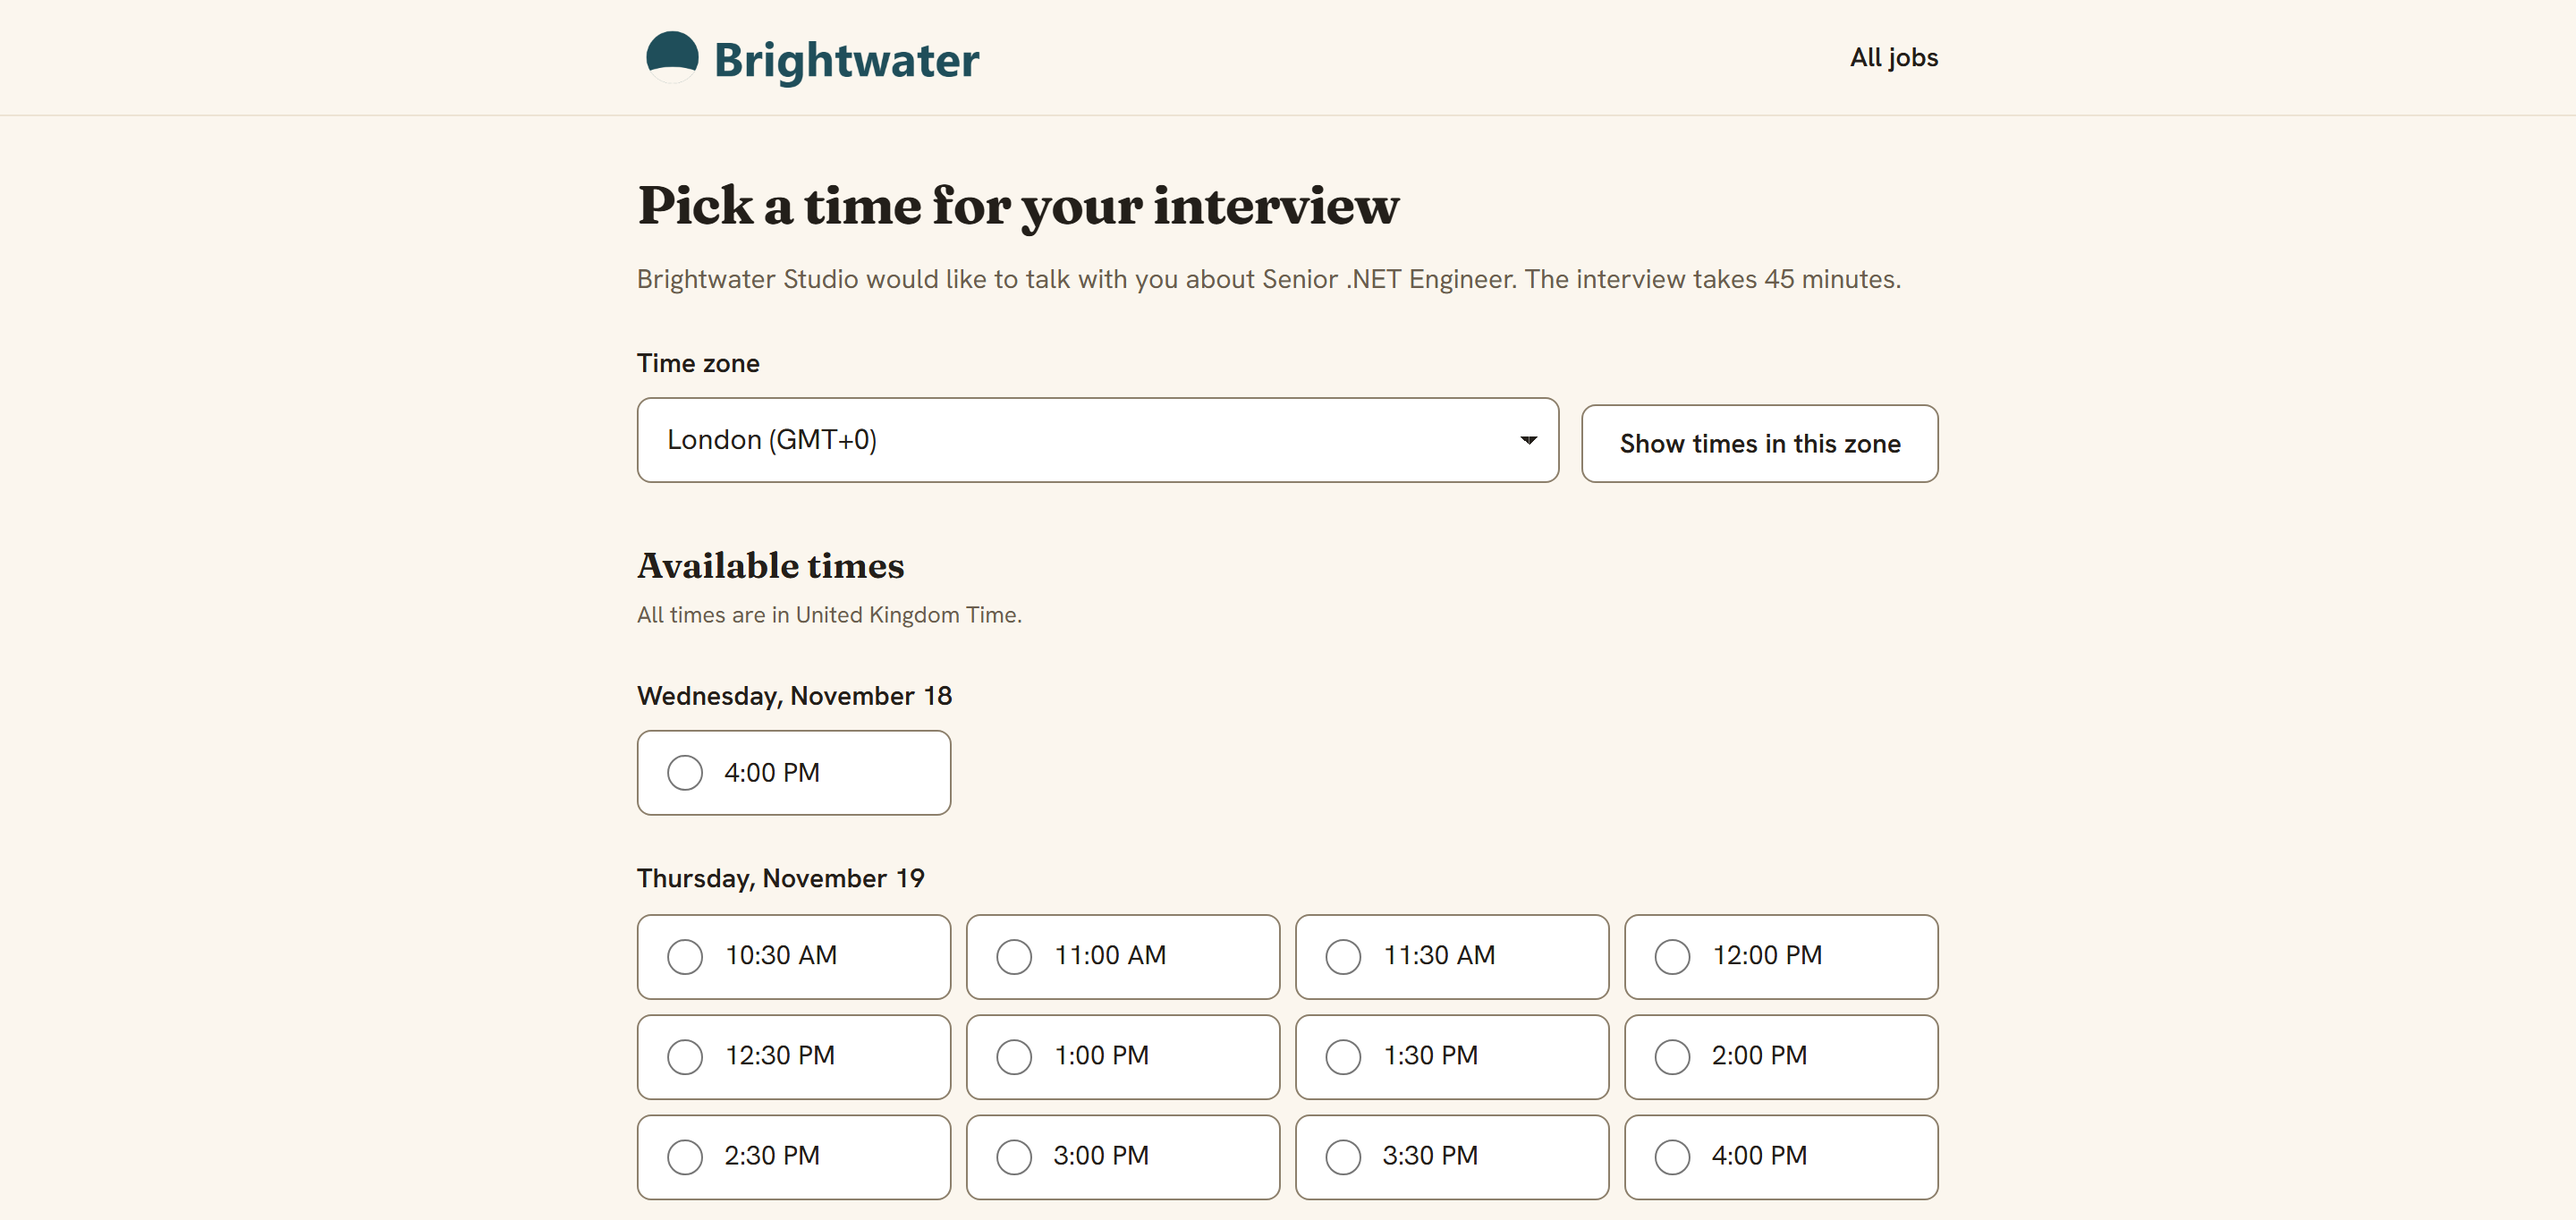
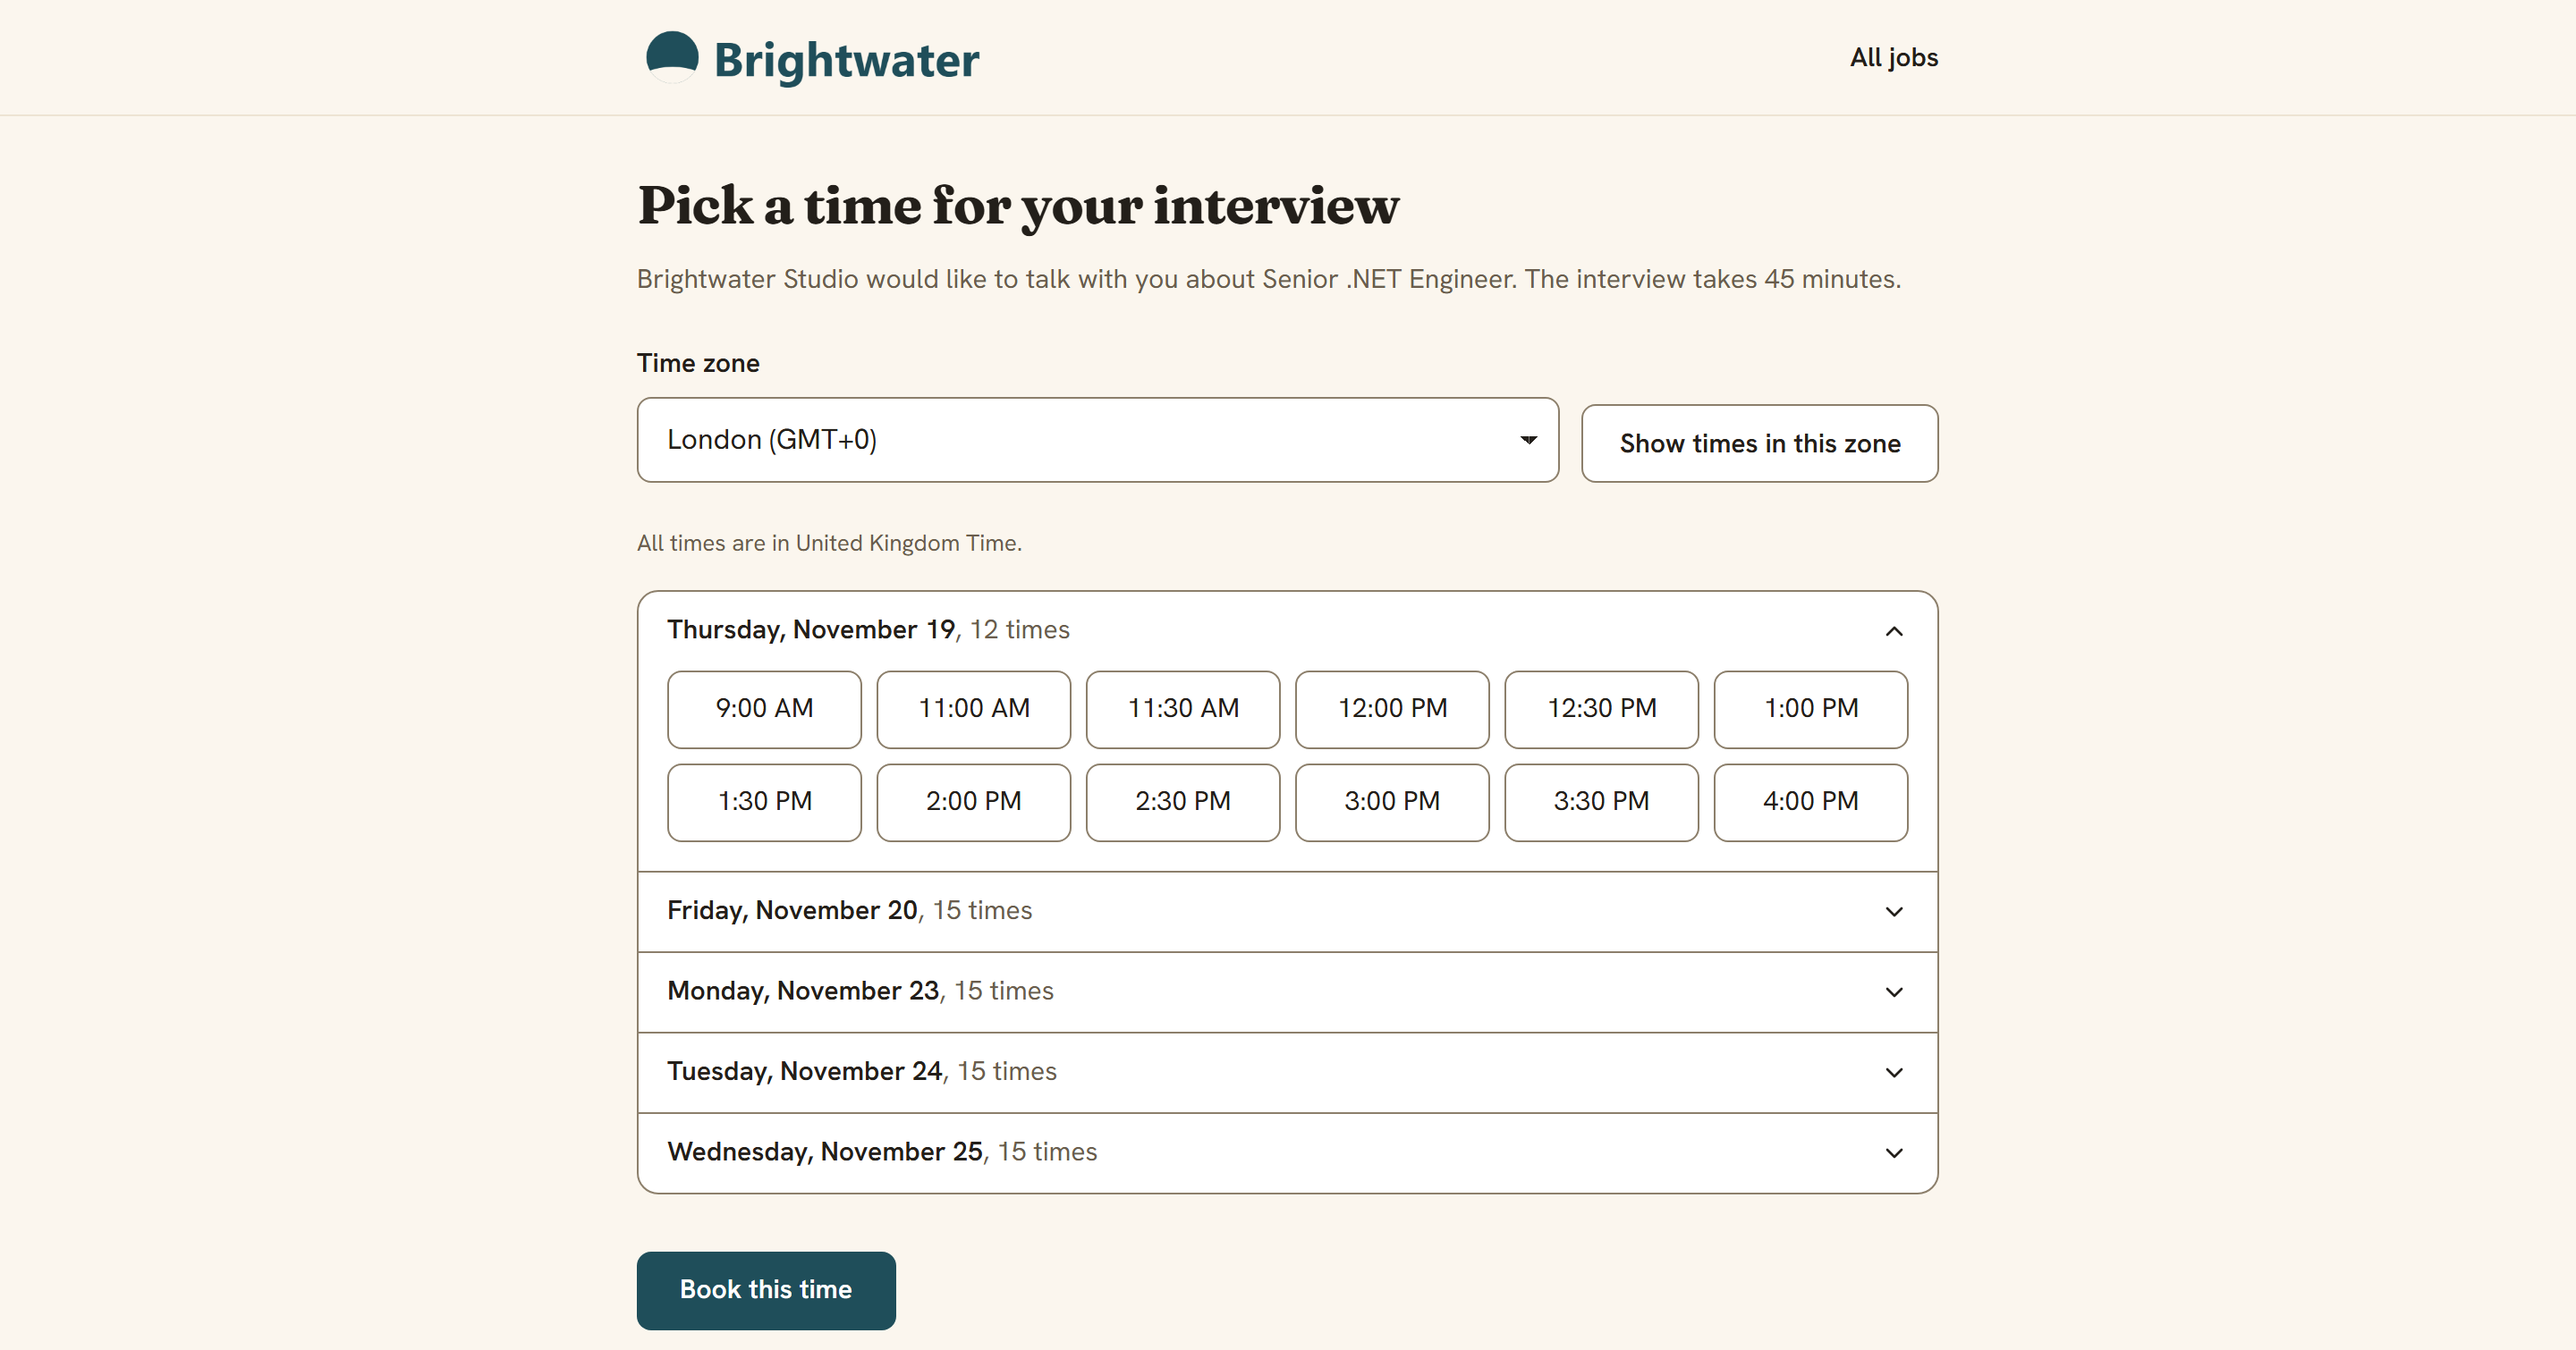
feat(careers): the interview picker shows one day at a time on a phone
Each day of times is a details element whose summary names the day and counts its
times; only the first day starts open. Times are chips three to a row, still radios
in the one form, so choosing works with JavaScript off. Where CSS anchor positioning
exists, the chosen time is repeated above Book from the checked label. Five days
now make a page under 1400 px tall at 390 px. The interview-booking pictures are
regenerated.

diff --git a/apps/careers/src/styles/global.css b/apps/careers/src/styles/global.css
@@ -49,4 +49,30 @@
     height: 1px;
     overflow: hidden;
   }
+
+  /* A time on the interview page is a chip: the radio covers it, invisible, so the whole chip is the target and the page is
+     three times to a row on a phone. The checked chip shows the choice (background and ring), and focus shows on the chip. */
+  .time-chip:has(:focus-visible) {
+    outline: 2px solid var(--candidate-brand-ui);
+    outline-offset: 2px;
+  }
+
+  /* The time picked, repeated above Book (the interview page). A checked time's label carries it in data-chosen and CSS
+     anchors it to the Book row, so there is no script and no copy of the text in the page. Only where the browser can
+     anchor; elsewhere the checked time itself shows the choice. The empty alternative text keeps it out of the radio's name. */
+  @supports (anchor-name: --book) {
+    .times-form .book-row {
+      anchor-name: --book;
+      margin-top: 1rem;
+    }
+
+    .times-form .choice:has(:checked)::after {
+      content: attr(data-chosen) / "";
+      position: absolute;
+      position-anchor: --book;
+      bottom: anchor(top);
+      left: 0;
+      @apply text-candidate-body font-semibold text-candidate-foreground;
+    }
+  }
 }

diff --git a/tests/ScreenHire.E2E/InterviewBookingTests.cs b/tests/ScreenHire.E2E/InterviewBookingTests.cs
@@ -42,13 +42,13 @@ public sealed partial class InterviewBookingTests(E2EFixture fixture) : BrowserT
         await Expect(Page).ToHaveURLAsync(new Regex("tz=Asia%2FKolkata"));
         await Expect(Page.Locator("#tz")).ToHaveValueAsync("Asia/Kolkata");
         await Expect(Page.GetByText("All times are in India Standard Time.")).ToBeVisibleAsync();
-        var morning = Page.GetByLabel("2:30 PM", new() { Exact = true }).First; // 09:00 UTC, the first hour of the working day
+        var morning = await OpenDayWithAsync("2:30 PM"); // 09:00 UTC, the first hour of the working day
         await Expect(morning).ToBeVisibleAsync();
         var firstDay = await DayOfAsync(morning);
         await ExpectNoAccessibilityViolationsAsync();
         await ShotsAsync(scene.Link + "?tz=Asia%2FKolkata", "interview-open");
 
-        morning = Page.GetByLabel("2:30 PM", new() { Exact = true }).First; // the shots reopened the page in a new browser context
+        morning = await OpenDayWithAsync("2:30 PM"); // the shots reopened the page in a new browser context
         await morning.CheckAsync();
         await Page.GetByRole(AriaRole.Button, new() { Name = "Book this time" }).ClickAsync();
 
@@ -74,8 +74,9 @@ public sealed partial class InterviewBookingTests(E2EFixture fixture) : BrowserT
         Page.Url.Should().Contain("change=1").And.Contain("tz=Asia%2FKolkata");
         await Expect(Page.Locator("main")).ToContainTextAsync("Choose a new time and we will move it.");
         await ExpectNoAccessibilityViolationsAsync();
-        var last = Page.Locator("fieldset").Last;
-        var lastDay = (await last.Locator("legend").InnerTextAsync()).Trim();
+        var last = Page.Locator("details").Last;
+        await last.Locator("summary").ClickAsync(); // only the first day starts open
+        var lastDay = (await last.Locator("legend").TextContentAsync())!.Trim();
         var lastTime = last.GetByRole(AriaRole.Radio).Last;
         var lastRange = (await lastTime.Locator("xpath=ancestor::label[1]").InnerTextAsync()).Trim();
         await lastTime.CheckAsync();
@@ -102,6 +103,45 @@ public sealed partial class InterviewBookingTests(E2EFixture fixture) : BrowserT
 
         // The recruiter sees the cancellation too.
         (await scene.Interview(Ct)).GetProperty("status").GetString().Should().Be("Cancelled");
+    }
+
+    [Fact]
+    public async Task A_candidate_on_a_phone_sees_one_day_of_times_at_a_time_and_books_a_time_on_the_third_day()
+    {
+        using var scene = await SceneAsync();
+        await WithoutJavaScriptAsync();
+        await Page.SetViewportSizeAsync(390, 844);
+        await Page.GotoAsync(scene.Link);
+        await Expect(Page.GetByRole(AriaRole.Heading, new() { Level = 1 })).ToHaveTextAsync("Pick a time for your interview");
+
+        // Five days of times are five lines, and only the first day is open: the page stays short and Book is in reach.
+        var days = Page.Locator("main form details");
+        await Expect(days).ToHaveCountAsync(5);
+        await Expect(days.First).ToHaveAttributeAsync("open", "");
+        await Expect(Page.Locator("main form details[open]")).ToHaveCountAsync(1);
+        await Expect(days.Nth(2).Locator("summary")).ToHaveTextAsync(new Regex(@",\s*\d+ times?$"));
+        (await Page.Locator("script:not([type='application/ld+json'])").CountAsync()).Should().Be(0, "the page ships no JavaScript");
+        await ExpectNoAccessibilityViolationsAsync();
+
+        await WithJavaScriptAsync(); // only to measure: the page has no script of its own
+        await Page.SetViewportSizeAsync(390, 844);
+        await Page.GotoAsync(scene.Link);
+        var height = await Page.EvaluateAsync<double>("() => document.documentElement.scrollHeight");
+        height.Should().BeLessThan(1400, "five days of times fit a phone page about one and a half screens tall");
+
+        // A time on the third day: open it, choose it, and the choice is repeated above Book.
+        var third = Page.Locator("main form details").Nth(2);
+        await third.Locator("summary").ClickAsync();
+        var dayHeading = (await third.Locator("legend").TextContentAsync())!.Trim();
+        await third.GetByRole(AriaRole.Radio).First.CheckAsync();
+        var repeated = await third.Locator("label.choice").First.EvaluateAsync<string>("e => getComputedStyle(e, '::after').content");
+        repeated.Should().Contain($"{dayHeading} at ", "the chosen time is repeated above Book");
+        await Page.GetByRole(AriaRole.Button, new() { Name = "Book this time" }).ClickAsync();
+
+        await Expect(Page.GetByRole(AriaRole.Heading, new() { Level = 1 })).ToHaveTextAsync("Your interview is booked");
+        await Expect(Page.GetByRole(AriaRole.Region, new() { Name = "Your time" })).ToContainTextAsync(dayHeading);
+        await ExpectNoAccessibilityViolationsAsync();
+        (await scene.Interview(Ct)).GetProperty("status").GetString().Should().Be("Booked");
     }
 
     [Fact]
@@ -137,7 +177,7 @@ public sealed partial class InterviewBookingTests(E2EFixture fixture) : BrowserT
         await Expect(Page.GetByRole(AriaRole.Heading, new() { Level = 1 })).ToHaveTextAsync("Pick a new time");
         await Expect(Page.GetByRole(AriaRole.Link, new() { Name = "Keep my current time" }).First).ToBeVisibleAsync();
         await ExpectNoAccessibilityViolationsAsync();
-        var firstDay = (await Page.Locator("fieldset legend").First.InnerTextAsync()).Trim();
+        var firstDay = (await Page.Locator("fieldset legend").First.TextContentAsync())!.Trim();
         await Page.GetByRole(AriaRole.Radio).First.CheckAsync();
         await Page.GetByRole(AriaRole.Button, new() { Name = "Move to this time" }).ClickAsync();
 
@@ -213,7 +253,21 @@ public sealed partial class InterviewBookingTests(E2EFixture fixture) : BrowserT
     }
 
     private static async Task<string> DayOfAsync(ILocator radioLabelled) =>
-        (await radioLabelled.Locator("xpath=ancestor::fieldset[1]/legend").InnerTextAsync()).Trim();
+        (await radioLabelled.Locator("xpath=ancestor::fieldset[1]/legend").TextContentAsync())!.Trim();
+
+    // The radio for a time on the first day that offers it, with that day open: only the first day starts open, and a closed
+    // day's times cannot be seen or chosen.
+    private async Task<ILocator> OpenDayWithAsync(string time)
+    {
+        var radio = Page.GetByLabel(time, new() { Exact = true });
+        var day = Page.Locator("details", new() { Has = radio }).First;
+        if (await day.GetAttributeAsync("open") is null)
+        {
+            await day.Locator("summary").ClickAsync();
+        }
+
+        return day.GetByLabel(time, new() { Exact = true });
+    }
 
     private async Task<MailpitMessage> WaitForEmailAsync(string address, string subject)
     {

diff --git a/tests/ScreenHire.E2E/MarketingScreenshotsTests.cs b/tests/ScreenHire.E2E/MarketingScreenshotsTests.cs
@@ -107,6 +107,7 @@ public sealed partial class MarketingScreenshotsTests(MarketingDemoFixture fixtu
 
         // Where the phone pictures stop: between elements, never through the middle of one.
         static ILocator Stage4(IPage page) => page.GetByRole(AriaRole.List, new() { Name = "Stages in order" }).Locator("> li").Nth(3);
+        static ILocator Book(IPage page) => page.GetByRole(AriaRole.Button, new() { Name = "Book this time" });
         static ILocator Entry(IPage page, string text) => page.Locator("main ol[aria-label] > li").Filter(new() { HasText = text });
 
         var screens = new List<Screen>
@@ -141,11 +142,11 @@ public sealed partial class MarketingScreenshotsTests(MarketingDemoFixture fixtu
                 WideTo: page => PanelTitled(page, "Candidate journey"), WideMargin: 4,
                 Phone: new(Height: 1800, Margin: 10, From: page => PanelTitled(page, "Candidate journey"), To: Stage4)),
 
-            // 7. The candidate's interview booking page, before they pick a time. Both pictures end after the second day of times;
-            // the window is tall enough for two whole days when the run starts early and today has times all day.
+            // 7. The candidate's interview booking page, before they pick a time: the first day open, the other days one line each.
+            // Both pictures end at the Book button.
             new("interview-booking", bookingLink, "Pick a time for your interview", _ => Task.CompletedTask, Public: true, Height: 1150,
-                WideTo: page => page.Locator("main fieldset").Nth(1), WideMargin: 12,
-                Phone: new(Height: 2400, Margin: 12, To: page => page.Locator("main fieldset").Nth(1))),
+                WideTo: Book, WideMargin: 12,
+                Phone: new(Height: 1400, Margin: 12, To: Book)),
 
             // 8. Slack, connected, in Settings, whose menu lists each integration beside the other settings.
             new("integrations", DashboardUrl("/settings/slack"), "Slack",

diff --git a/docs/architecture/interview-scheduling.md b/docs/architecture/interview-scheduling.md
@@ -428,7 +428,9 @@ offers instants and the zone; it never sends formatted text. Booking, moving and
 redirect back to the same address with an outcome word (`booked`, `rescheduled`, `cancelled`, `slot-taken`, `too-late`).
 A conflict maps to its notice by the problem's `type`. When the team has offered new times the page says so, keeps the booked time in view and leads with Pick a new time, which
 opens the picker on the new days. The usual notice does not apply while the offer is pending. The page shows one screen of five days that have times and links to the
-next, shows no meeting link of its own (the calendar invitation has it), names no interviewer, and says nothing about
+next. Each day is a `details` element whose summary names the day and counts its times, and only the first day starts open, so five days are five lines on a phone and the page stays under 1400 px tall.
+The times stay radios in the one form, so a closed day still posts. Where the browser supports CSS anchor positioning, the chosen time ("Tuesday, November 18 at 10:30 AM") is repeated above Book from the checked label's `data-chosen`; elsewhere the checked time shows the choice. The page
+shows no meeting link of its own (the calendar invitation has it), names no interviewer, and says nothing about
 verification. Cancelling asks first: a `details` element opens a line that says what happens and a Yes, cancel it button. The browser test (`InterviewBookingTests`) runs the whole journey with JavaScript off, axe clean, and checks
 the page at 390 and 1280 pixels wide for sideways scrolling and touch targets.
 
